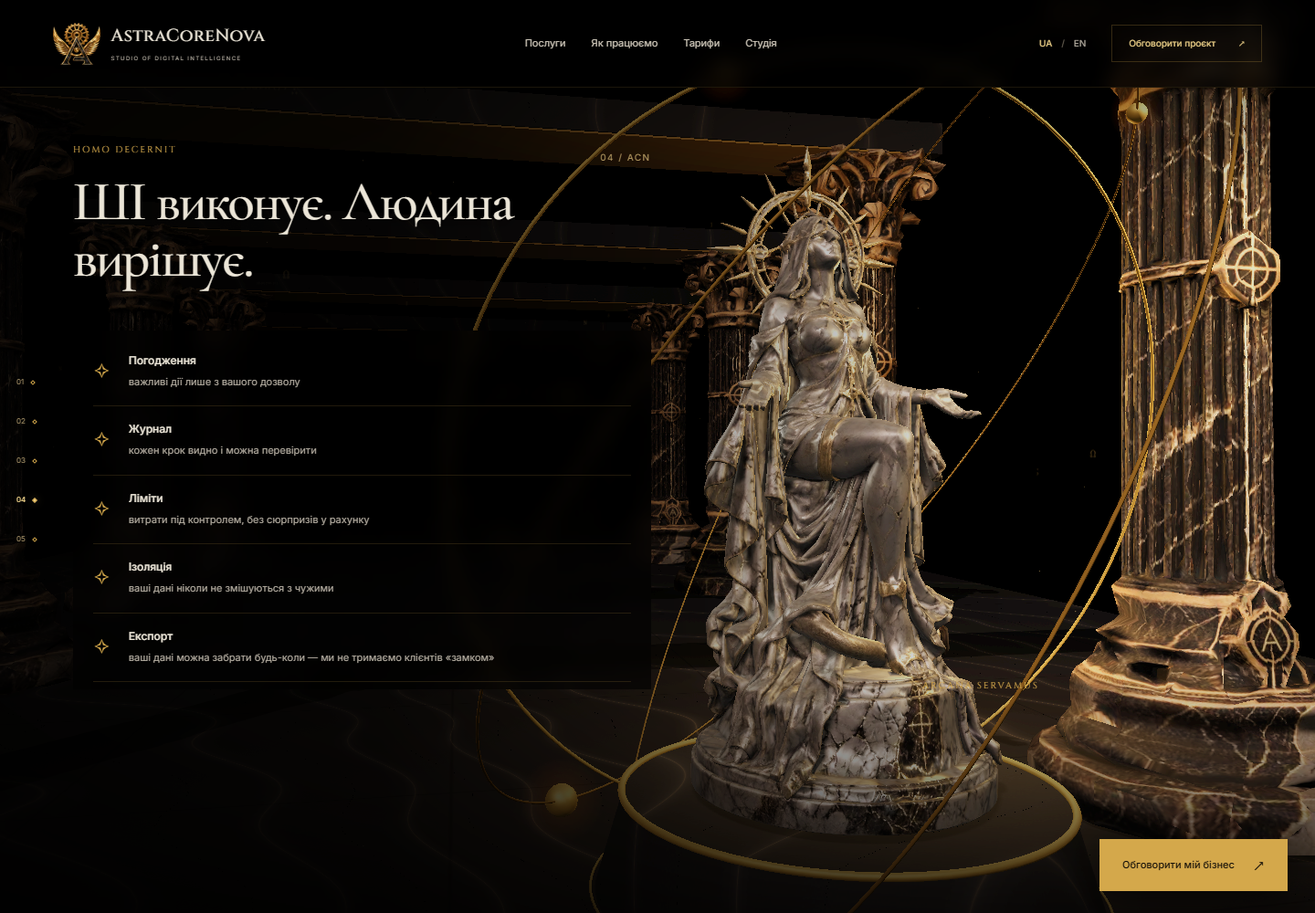
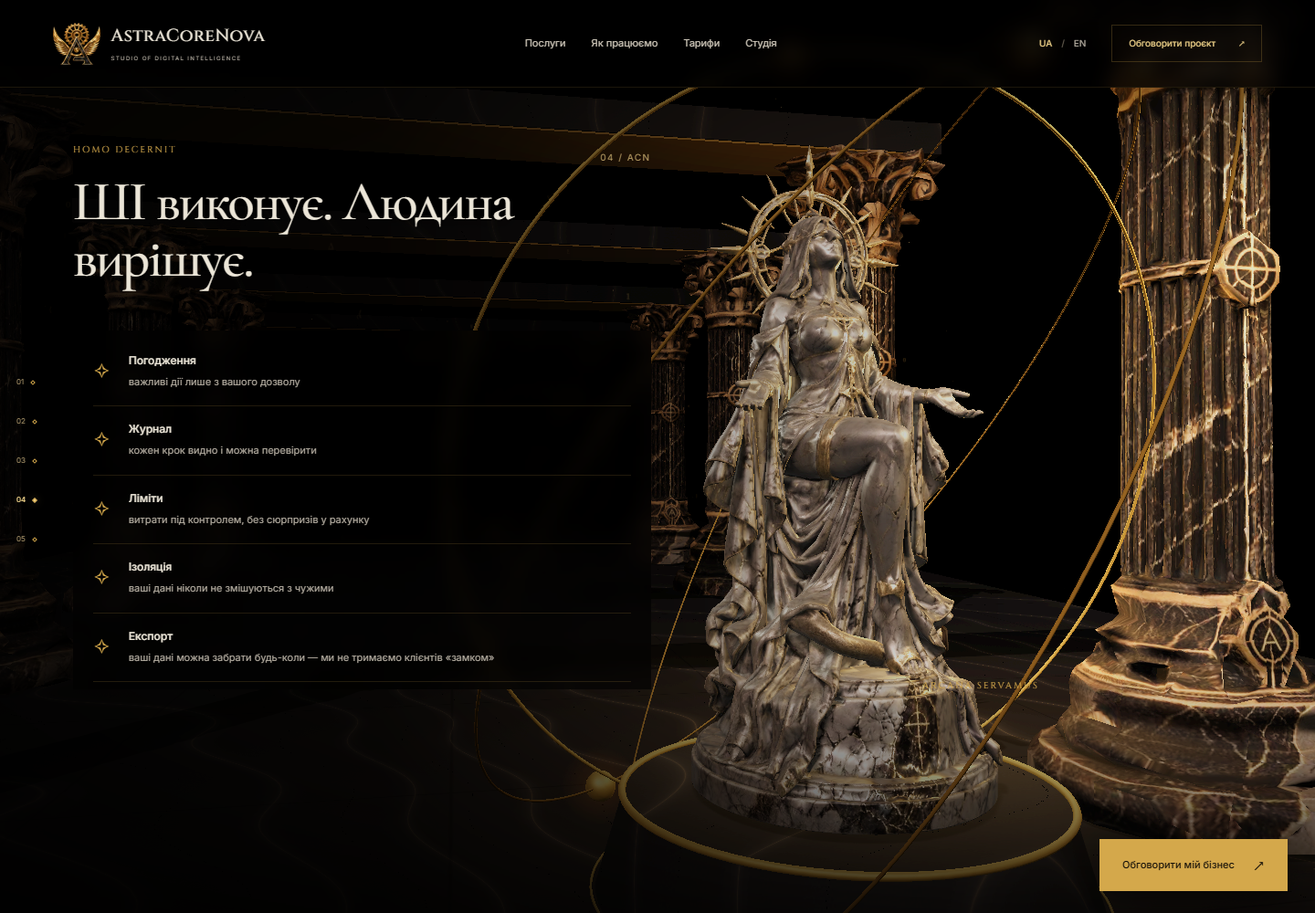
Start temple immediately and enable adaptive mobile camera journey

diff --git a/assets/js/temple-journey.js b/assets/js/temple-journey.js
@@ -1,14 +1,14 @@
-/* Two-hall review prototype. One persistent WebGL canvas; all business content is HTML. */
+/* One persistent temple. Desktop cinema and a lower-cost mobile camera journey. */
 const root=document.getElementById('temple-scene');
 const status=document.createElement('span');
 const reduced=matchMedia('(prefers-reduced-motion: reduce)');
 const narrow=matchMedia('(max-width: 900px)');
+const mobile=narrow.matches||matchMedia('(pointer: coarse)').matches;
 let dispose=()=>{};
 let updateStatus=()=>{};
 let battery;
 function reason(){
   if(reduced.matches)return 'Постери · зменшення руху';
-  if(narrow.matches||matchMedia('(pointer: coarse)').matches)return 'Постери · мобільний режим';
   if(navigator.hardwareConcurrency<=4)return 'Постери · ощадний режим';
   if(navigator.connection?.saveData)return 'Постери · економія трафіку';
   if(battery&&!battery.charging&&battery.level<.2)return 'Постери · низький заряд';
@@ -19,24 +19,24 @@ document.querySelectorAll('a[href^="#"]').forEach(link=>link.addEventListener('c
   event.preventDefault();target.scrollIntoView({behavior:reduced.matches?'instant':'smooth'});
   history.replaceState(null,'',`#${id}`);
 }));
-function change(){const fallback=reason();if(fallback){dispose();status.textContent=fallback;}}
+function change(){const fallback=reason();if(fallback){dispose();document.documentElement.classList.remove('scene-preview');status.textContent=fallback;}}
 reduced.addEventListener('change',change);narrow.addEventListener('change',change);
 document.addEventListener('visibilitychange',()=>updateStatus());
 
 async function start(){
  try{battery=await navigator.getBattery?.();battery?.addEventListener('levelchange',change);battery?.addEventListener('chargingchange',change);}catch{}
- if(reason()){status.textContent=reason();return;}
+ if(reason()){document.documentElement.classList.remove('scene-preview');status.textContent=reason();return;}
  const probe=document.createElement('canvas'),gl=probe.getContext('webgl2');
- if(!gl){status.textContent='Постери · WebGL2 недоступний';return;}gl.getExtension('WEBGL_lose_context')?.loseContext();
+ if(!gl){document.documentElement.classList.remove('scene-preview');status.textContent='Постери · WebGL2 недоступний';return;}gl.getExtension('WEBGL_lose_context')?.loseContext();
  try{
  const [THREE,{GLTFLoader},{MeshoptDecoder},{RoomEnvironment},{EffectComposer},{RenderPass},{UnrealBloomPass},{BokehPass},{OutputPass},g,s,{mergeGeometries},atmosphere]=await Promise.all([
-  import('three'),import('three/addons/loaders/GLTFLoader.js'),import('three/addons/libs/meshopt_decoder.module.js'),import('three/addons/environments/RoomEnvironment.js'),import('three/addons/postprocessing/EffectComposer.js'),import('three/addons/postprocessing/RenderPass.js'),import('three/addons/postprocessing/UnrealBloomPass.js'),import('three/addons/postprocessing/BokehPass.js'),import('three/addons/postprocessing/OutputPass.js'),import('https://cdn.jsdelivr.net/npm/gsap@3.13.0/index.js'),import('https://cdn.jsdelivr.net/npm/gsap@3.13.0/ScrollTrigger.js'),import('three/addons/utils/BufferGeometryUtils.js'),import('./temple-atmosphere.js')]);
+  import('three'),import('three/addons/loaders/GLTFLoader.js'),import('three/addons/libs/meshopt_decoder.module.js'),import('three/addons/environments/RoomEnvironment.js'),mobile?Promise.resolve({}):import('three/addons/postprocessing/EffectComposer.js'),mobile?Promise.resolve({}):import('three/addons/postprocessing/RenderPass.js'),mobile?Promise.resolve({}):import('three/addons/postprocessing/UnrealBloomPass.js'),mobile?Promise.resolve({}):import('three/addons/postprocessing/BokehPass.js'),mobile?Promise.resolve({}):import('three/addons/postprocessing/OutputPass.js'),import('https://cdn.jsdelivr.net/npm/gsap@3.13.0/index.js'),import('https://cdn.jsdelivr.net/npm/gsap@3.13.0/ScrollTrigger.js'),import('three/addons/utils/BufferGeometryUtils.js'),import('./temple-atmosphere.js')]);
  if(reason()){status.textContent=reason();return;}
  const {gsap}=g,{ScrollTrigger}=s;gsap.registerPlugin(ScrollTrigger);
  const renderer=new THREE.WebGLRenderer({alpha:false,antialias:true,powerPreference:'high-performance'});
- renderer.setPixelRatio(Math.min(devicePixelRatio,1.5));renderer.setSize(innerWidth,innerHeight);renderer.setClearColor(0x000000);
+ renderer.setPixelRatio(Math.min(devicePixelRatio,mobile?1:1.5));renderer.setSize(innerWidth,innerHeight);renderer.setClearColor(0x000000);
  renderer.toneMapping=THREE.ACESFilmicToneMapping;renderer.toneMappingExposure=1.02;
- renderer.shadowMap.enabled=true;renderer.shadowMap.type=THREE.PCFSoftShadowMap;
+ renderer.shadowMap.enabled=!mobile;renderer.shadowMap.type=THREE.PCFSoftShadowMap;
  root.append(renderer.domElement);
  const scene=new THREE.Scene();scene.background=new THREE.Color(0x000000);scene.fog=new THREE.FogExp2(0x000000,.033);
  const camera=new THREE.PerspectiveCamera(49,innerWidth/innerHeight,.1,120);
@@ -93,7 +93,7 @@ async function start(){
  function label(text,x,y,z){const canvas=document.createElement('canvas');canvas.width=1024;canvas.height=128;const ctx=canvas.getContext('2d');ctx.font='32px Cinzel,Georgia';ctx.textAlign='center';ctx.fillStyle='#d4a84b';ctx.fillText(text,512,72);const texture=new THREE.CanvasTexture(canvas);texture.colorSpace=THREE.SRGBColorSpace;const material=new THREE.SpriteMaterial({map:texture,color:0xffffff,transparent:true,opacity:.8,depthWrite:false});const sprite=new THREE.Sprite(material);sprite.position.set(x,y,z);sprite.scale.set(8,1,1);scene.add(sprite);return sprite;}
  await document.fonts.ready;
  const signs=[label('EX ASTRIS NOVA AETAS',0,6.3,0),label('OPERA DIGITALIA',0,6.3,-28),label('INTELLIGENTIA SINE LIMITIBUS',-5.9,4.5,-5),label('HOMO DECERNIT',0,6.3,-75),label('PRETIUM ET VALOR',0,6.3,-100),...[-40,-46,-52,-58].map((z,i)=>label(['I · COGNITIO','II · EXPERIMENTUM','III · OPUS','IV · CURA'][i],0,6.6,z))];
- const goldenCode=atmosphere.createGoldenCode(scene,{count:520,depth:122,dustCount:580,statues:[[2.5,2],[2.5,-27],[2.5,-74]]});
+ const goldenCode=atmosphere.createGoldenCode(scene,{count:mobile?180:520,depth:122,dustCount:mobile?150:580,statues:[[2.5,2],[2.5,-27],[2.5,-74]]});
  // Merge the static columns/trim by material: richer architecture without hundreds of draw calls.
  for(const source of [scene,proceduralColumns])for(const material of [marble,gold,darkGold]){
   const objects=source.children.filter(object=>object.isMesh&&object.material===material&&object!==floor&&object.geometry.type!=='PlaneGeometry');
@@ -101,10 +101,10 @@ async function start(){
   if(geometries.length){const merged=mergeGeometries(geometries);if(merged){objects.forEach(object=>{source.remove(object);object.geometry.dispose();});const batch=new THREE.Mesh(merged,material);batch.castShadow=true;batch.receiveShadow=true;source.add(batch);}geometries.forEach(geometry=>geometry.dispose());}
  }
  const loader=new GLTFLoader().setMeshoptDecoder(MeshoptDecoder);const statues=[];let colossusPromise,madonnaPromise;const columnBatches=[];
- let stopped=false,raf=0,last=0,time=0;const state={progress:0,scrollY:0,loaded:0,frames:0,architecture:false,floorInserts:false};
+ let stopped=false,raf=0,last=0,time=0,mobileRequested='oracle';const state={progress:0,scrollY:0,loaded:0,frames:0,architecture:false,floorInserts:false};
  async function loadColumn(){
   try{
-   const url='assets/3d/column.glb',response=await fetch(url,{method:'HEAD'});if(!response.ok)return;
+   const url='assets/3d/column.glb';
    const gltf=await loader.loadAsync(url);if(stopped){disposeObject(gltf.scene);return;}
    const original=gltf.scene;original.updateMatrixWorld(true);const bounds=new THREE.Box3().setFromObject(original),size=bounds.getSize(new THREE.Vector3()),center=bounds.getCenter(new THREE.Vector3()),scale=7.3/size.y;
    const normalize=new THREE.Matrix4().makeScale(scale,scale,scale).multiply(new THREE.Matrix4().makeTranslation(-center.x,-bounds.min.y,-center.z));
@@ -140,7 +140,25 @@ async function start(){
    if(inserts.children.length){scene.add(inserts);state.floorInserts=true;}
   }catch(error){console.warn('ACN: keeping plain stone floor',error.message);}
  }
- async function load(name,z){try{const response=await fetch(`assets/3d/${name}.glb`,{method:'HEAD'});if(!response.ok)return;const gltf=await loader.loadAsync(`assets/3d/${name}.glb`);if(stopped){disposeObject(gltf.scene);return;}const statue=new THREE.Group(),object=gltf.scene;const bounds=new THREE.Box3().setFromObject(object),size=bounds.getSize(new THREE.Vector3()),center=bounds.getCenter(new THREE.Vector3()),scale=4.3/Math.max(size.x,size.y,size.z);object.scale.setScalar(scale);object.position.set(-center.x*scale,.66-bounds.min.y*scale,-center.z*scale);object.traverse(n=>{if(n.isMesh){n.castShadow=true;n.receiveShadow=true;}});statue.add(object);statue.position.set(2.5,0,z);scene.add(statue);statues.push(statue);state.loaded++;return statue;}catch(error){console.warn('ACN prototype model fallback',name,error.message);}}
+ async function load(name,z){
+  try{
+   const gltf=await loader.loadAsync(`assets/3d/${name}${mobile?'-mobile':''}.glb`);
+   if(stopped||(mobile&&mobileRequested!==name)){disposeObject(gltf.scene);return;}
+   if(mobile){statues.splice(0).forEach(statue=>{scene.remove(statue);disposeObject(statue);});}
+   const statue=new THREE.Group(),object=gltf.scene;
+   const bounds=new THREE.Box3().setFromObject(object),size=bounds.getSize(new THREE.Vector3()),center=bounds.getCenter(new THREE.Vector3()),scale=4.3/Math.max(size.x,size.y,size.z);
+   object.scale.setScalar(scale);object.position.set(-center.x*scale,.66-bounds.min.y*scale,-center.z*scale);
+   object.traverse(n=>{if(n.isMesh){n.castShadow=!mobile;n.receiveShadow=!mobile;}});
+   statue.add(object);statue.userData.modelName=name;statue.position.set(2.5,0,z);scene.add(statue);statues.push(statue);state.loaded++;return statue;
+  }catch(error){console.warn('ACN model fallback',name,error.message);}
+ }
+ function selectMobileModel(p){
+  const desired=p<.14?'oracle':p<.37?'colossus':p>.64&&p<.94?'madonna':null;
+  if(desired===mobileRequested)return;
+  mobileRequested=desired;
+  if(desired)load(desired,{oracle:2,colossus:-27,madonna:-74}[desired]);
+  else statues.splice(0).forEach(statue=>{scene.remove(statue);disposeObject(statue);});
+ }
  const route=new THREE.CatmullRomCurve3([new THREE.Vector3(0,2.65,11),new THREE.Vector3(.15,2.65,-19),new THREE.Vector3(-.4,2.8,-33),new THREE.Vector3(.3,2.65,-59),new THREE.Vector3(0,2.7,-66),new THREE.Vector3(0,2.65,-90)]);
  const lookRoute=new THREE.CatmullRomCurve3([new THREE.Vector3(2,2.8,0),new THREE.Vector3(2.5,2.8,-27),new THREE.Vector3(0,3,-43),new THREE.Vector3(0,3,-66),new THREE.Vector3(2.5,2.8,-74),new THREE.Vector3(2.5,3,-100)]);
  const sections=Object.fromEntries(['hero','services','process','security','pricing'].map(id=>[id,document.getElementById(id)]));
@@ -148,7 +166,9 @@ async function start(){
  function measure(){anchors=[0,Math.max(1,sections.services.offsetTop-innerHeight*.18),sections.process.offsetTop-innerHeight*.32,sections.process.offsetTop+sections.process.offsetHeight-innerHeight*.8,sections.security.offsetTop-innerHeight*.18,sections.pricing.offsetTop-innerHeight*.18];}
  function routeProgress(scroll){for(let i=0;i<anchors.length-1;i++){if(scroll<=anchors[i+1])return (i+THREE.MathUtils.clamp((scroll-anchors[i])/(anchors[i+1]-anchors[i]),0,1))/(anchors.length-1);}return 1;}
  measure();
- const composer=new EffectComposer(renderer,new THREE.WebGLRenderTarget(innerWidth,innerHeight,{type:THREE.UnsignedByteType}));composer.addPass(new RenderPass(scene,camera));const bloom=new UnrealBloomPass(new THREE.Vector2(innerWidth,innerHeight),.17,.4,.86);composer.addPass(bloom);const bokeh=new BokehPass(scene,camera,{focus:10,aperture:.000012,maxblur:.003});bokeh.enabled=false;composer.addPass(bokeh);composer.addPass(new OutputPass());
+ const composer=mobile?{render:()=>renderer.render(scene,camera),setSize:()=>{},dispose:()=>{}}:new EffectComposer(renderer,new THREE.WebGLRenderTarget(innerWidth,innerHeight,{type:THREE.UnsignedByteType}));
+ const bokeh=mobile?{enabled:false,uniforms:{aperture:{value:0},focus:{value:10}}}:new BokehPass(scene,camera,{focus:10,aperture:.000012,maxblur:.003});
+ if(!mobile){composer.addPass(new RenderPass(scene,camera));composer.addPass(new UnrealBloomPass(new THREE.Vector2(innerWidth,innerHeight),.17,.4,.86));composer.addPass(bokeh);composer.addPass(new OutputPass());}bokeh.enabled=false;
  if(new URLSearchParams(location.search).has('debug'))window.__acnScene={renderer,scene,camera,composer};
  let pointerX=0,pointerY=0;
  const onPointer=event=>{pointerX=(event.clientX/innerWidth-.5)*.24;pointerY=(event.clientY/innerHeight-.5)*.10;};addEventListener('pointermove',onPointer,{passive:true});
@@ -157,14 +177,15 @@ async function start(){
  const statusForProgress=()=>{};updateStatus=statusForProgress;
  function render(now){
   if(stopped||document.hidden){raf=0;return;}
-  if(now-last>=1000/60){
+  if(now-last>=1000/(mobile?30:60)){
    const delta=Math.min((now-last)/1000,.08);last=now;time+=delta;state.frames++;
    const p=routeProgress(state.scrollY),point=route.getPoint(p),target=lookRoute.getPoint(p);state.progress=p;
-   if(p>.06&&!colossusPromise)colossusPromise=load('colossus',-27);if(p>.49&&!madonnaPromise)madonnaPromise=load('madonna',-74);
+   if(mobile)selectMobileModel(p);
+   if(!mobile&&p>.06&&!colossusPromise)colossusPromise=load('colossus',-27);if(!mobile&&p>.49&&!madonnaPromise)madonnaPromise=load('madonna',-74);
    point.x+=pointerX+Math.sin(time*.13)*.12;point.y+=pointerY+Math.sin(time*.11)*.025;
-   target.x-=1.05;camera.position.copy(point);camera.lookAt(target);
+   target.x-=mobile?0:1.05;camera.position.copy(point);camera.lookAt(target);
    const transition=Math.sin(Math.PI*p);
-   bokeh.enabled=p>.28&&p<.79;bokeh.uniforms.aperture.value=.000012*transition;bokeh.uniforms.focus.value=camera.position.distanceTo(target);
+   bokeh.enabled=!mobile&&p>.28&&p<.79;bokeh.uniforms.aperture.value=.000012*transition;bokeh.uniforms.focus.value=camera.position.distanceTo(target);
    key.position.set(-2+Math.sin(time*.16)*1.2,8,point.z-3);key.target.position.set(2.5,2.5,target.z);
    key.color.setRGB(1,.82-.10*p,.56+.12*p);key.intensity=3.1+Math.sin(time*.24)*.18;
    scene.fog.density=.026+transition*.01;
@@ -175,7 +196,7 @@ async function start(){
    signs.forEach((sign,i)=>sign.material.opacity=.73+Math.sin(time*.7+i)*.12);
    entranceCopy.style.opacity='1';
    composer.render();if(state.frames%30===0)statusForProgress();
-   window.__acnJourney={canvasCount:root.querySelectorAll('canvas').length,progress:p,room:p<.14?'entrance':p<.35?'services':p<.7?'process':p<.9?'security':'final',models:state.loaded,camera:point.toArray(),frames:state.frames,glyphs:goldenCode.count,motes:goldenCode.dustCount,statueRotations:statues.map(statue=>statue.rotation.y),elapsed:time,architecture:state.architecture,floorInserts:state.floorInserts};
+   window.__acnJourney={canvasCount:root.querySelectorAll('canvas').length,quality:mobile?'mobile':'desktop',residentModels:statues.length,modelNames:statues.map(s=>s.userData.modelName),shadows:renderer.shadowMap.enabled,postprocessing:!mobile,progress:p,room:p<.14?'entrance':p<.35?'services':p<.7?'process':p<.9?'security':'final',models:state.loaded,camera:point.toArray(),frames:state.frames,glyphs:goldenCode.count,motes:goldenCode.dustCount,statueRotations:statues.map(statue=>statue.rotation.y),elapsed:time,architecture:state.architecture,floorInserts:state.floorInserts};
   }
   raf=requestAnimationFrame(render);
  }
@@ -183,11 +204,13 @@ async function start(){
  document.addEventListener('visibilitychange',resume);
  function resize(){if(stopped)return;measure();camera.aspect=innerWidth/innerHeight;camera.updateProjectionMatrix();renderer.setSize(innerWidth,innerHeight);composer.setSize(innerWidth,innerHeight);ScrollTrigger.refresh();}addEventListener('resize',resize);
  function disposeObject(object){object.traverse(node=>{if(node.geometry)node.geometry.dispose();const materials=Array.isArray(node.material)?node.material:[node.material];materials.filter(Boolean).forEach(material=>{Object.values(material).forEach(value=>{if(value?.isTexture)value.dispose();});material.dispose();});});}
- dispose=()=>{if(stopped)return;stopped=true;cancelAnimationFrame(raf);trigger.kill();document.removeEventListener('visibilitychange',resume);removeEventListener('pointermove',onPointer);removeEventListener('resize',resize);disposeObject(scene);environment.dispose();composer.dispose();renderer.dispose();renderer.forceContextLoss();renderer.domElement.remove();document.body.classList.remove('scene-ready');entranceCopy.style.opacity='1';};
- await load('oracle',2);if(reason()){dispose();status.textContent=reason();return;}
- loadColumn().then(()=>{if(!stopped)loadFloorInserts();});
+ dispose=()=>{if(stopped)return;stopped=true;cancelAnimationFrame(raf);trigger.kill();document.removeEventListener('visibilitychange',resume);removeEventListener('pointermove',onPointer);removeEventListener('resize',resize);disposeObject(scene);environment.dispose();composer.dispose();renderer.dispose();renderer.forceContextLoss();renderer.domElement.remove();document.body.classList.remove('scene-ready');document.documentElement.classList.remove('scene-preview');entranceCopy.style.opacity='1';};
+ await Promise.all([load('oracle',2),mobile?Promise.resolve():loadColumn()]);if(reason()){dispose();status.textContent=reason();return;}
+ if(!mobile)loadFloorInserts();
+ camera.position.copy(route.getPoint(0));const firstTarget=lookRoute.getPoint(0);firstTarget.x-=mobile?0:1.05;camera.lookAt(firstTarget);
+ await renderer.compileAsync(scene,camera);composer.render();
  document.body.classList.add('scene-ready');root.dataset.state='ready';resume();addEventListener('pagehide',dispose,{once:true});
- }catch(error){dispose();root.dataset.state='fallback';status.textContent='Постери · 3D тимчасово недоступне';console.warn('ACN journey fallback',error.message);}
+ }catch(error){dispose();document.documentElement.classList.remove('scene-preview');root.dataset.state='fallback';status.textContent='Постери · 3D тимчасово недоступне';console.warn('ACN journey fallback',error.message);}
 }
 // Keep the first paint and HTML interaction independent of the 3D engine.
-if('requestIdleCallback' in window)requestIdleCallback(start,{timeout:2200});else setTimeout(start,1200);
+start();

diff --git a/assets/css/journey-site.css b/assets/css/journey-site.css
@@ -2,8 +2,12 @@
 .temple-site{background:#000;padding-bottom:40px;--bronze:#ad9158;--muted:#b4ada1}
 .temple-site::before{display:none}.sr-only{position:absolute;width:1px;height:1px;padding:0;margin:-1px;overflow:hidden;clip:rect(0,0,0,0);white-space:nowrap;border:0}
 #temple-scene{position:fixed;inset:0;z-index:0;background:#000;pointer-events:none}
-#temple-scene canvas{display:block;width:100%;height:100%;opacity:0;transition:opacity 1.2s}
+#temple-scene::before{content:'';position:absolute;inset:0;background:#000 center/100% 100% no-repeat;opacity:0}
+.scene-preview #temple-scene::before{background-image:url('../3d/temple-entry.webp');opacity:1}
+.scene-preview .hero-art .model-poster,.scene-preview .hero-art .orbit,.scene-preview .hero-art .model-coordinate{visibility:hidden}
+#temple-scene canvas{position:relative;display:block;width:100%;height:100%;opacity:0;transition:opacity .45s}
 .scene-ready #temple-scene canvas{opacity:1}
+.scene-ready #temple-scene::before{opacity:0;transition:opacity .45s}
 .temple-vignette{position:fixed;inset:0;z-index:1;pointer-events:none;background:linear-gradient(90deg,#000d,#000b 29%,#0003 58%,transparent 79%),linear-gradient(0deg,#000b,transparent 27%,transparent 78%,#0008)}
 .temple-site main,.temple-site .site-footer{position:relative;z-index:2}
 .temple-site .site-header{position:fixed;inset:0 0 auto;height:96px;background:linear-gradient(#000e,#000b);backdrop-filter:blur(10px);border-color:#d4a84b22;z-index:40}
@@ -68,6 +72,7 @@
 @media(max-width:560px){.temple-site .site-header{height:78px;padding-inline:18px;gap:10px}.temple-site .brand-crest{width:38px;height:38px}.temple-site .brand{font-size:13px;gap:8px}.temple-site .brand small{font-size:5px;letter-spacing:.12em}.temple-site .header-tools{gap:10px}.temple-site .hero{padding-top:78px}.temple-site .hero h1{font-size:clamp(53px,12.6vw,70px)}.temple-site .hero-content{padding-top:36px;min-height:0}.temple-site .hero-description{font-size:12px}.temple-site .hero-art{height:440px}.temple-site .hero-note{font-size:8px}.temple-site .hero-bottom{margin-bottom:10px}.temple-site .difference{width:calc(100% - 40px);padding:30px 18px}.temple-site .section{padding-block:65px}.temple-site .services-intro{grid-template-columns:1fr 130px;gap:10px;min-height:260px}.temple-site .services-intro .editorial{font-size:32px}.temple-site .services-intro>.model-stage{height:260px}.temple-site .timeline article{padding:23px 16px}.temple-site .timeline{gap:18px}.temple-site .security-layout{display:flex;flex-direction:column-reverse}.temple-site .control-list{padding-inline:16px}.temple-site .security-art{height:400px}.temple-site .studio-layout{gap:25px}.temple-site .studio-emblem img{width:210px;height:210px}.temple-site .faq-list{padding-inline:0;background:none}.temple-site .contact form{padding:22px 18px}.persistent-contact{left:18px;right:18px;bottom:16px;min-height:52px}.temple-site .site-footer{padding-bottom:110px}.temple-site .footer-top .brand-crest{width:31px;height:31px}.temple-site .button-outline{min-height:47px}.temple-vignette{background:linear-gradient(0deg,#0008,transparent 50%)}}
 @media(prefers-reduced-motion:reduce){.temple-site .process{min-height:0}.temple-site .process>.wrap{position:static;padding-block:0}.scene-ready .model-poster{opacity:1}}
 @media(max-width:900px){.temple-site .model-poster{filter:none;transition:none}.temple-site .site-header{backdrop-filter:none}.temple-site .hero-art .orbit{opacity:.55}}
+@media(max-width:900px){.scene-preview #temple-scene::before{background-image:url('../3d/temple-entry-mobile.webp');background-size:100% 100%;background-position:center}.scene-ready .model-poster{opacity:0}.scene-preview .temple-vignette{background:linear-gradient(180deg,#000b,#0008 48%,#0002 80%,#0008)}}
 .reveal-ready [data-reveal]{opacity:0;transform:translateY(18px);transition:opacity .7s ease var(--reveal-delay,0ms),transform .7s cubic-bezier(.2,.65,.25,1) var(--reveal-delay,0ms),border-color .3s,background .3s}
 .reveal-ready [data-reveal].is-revealed{opacity:1;transform:translateY(0)}
 @media(prefers-reduced-motion:reduce){.reveal-ready [data-reveal]{opacity:1;transform:none;transition:none}}

diff --git a/index.html b/index.html
@@ -1,5 +1,15 @@
 <!doctype html>
-<html lang="uk"><head><meta charset="utf-8"><meta name="viewport" content="width=device-width,initial-scale=1">
+<html lang="uk"><head><script>// Inlined in the head: choose the first-paint treatment before content is drawn.
+(()=>{
+ if(matchMedia('(prefers-reduced-motion: reduce)').matches||navigator.hardwareConcurrency<=4||navigator.connection?.saveData||!window.WebGL2RenderingContext)return;
+ document.documentElement.classList.add('scene-preview');
+ const mobile=matchMedia('(max-width:900px), (pointer:coarse)').matches;
+ function preload(rel,href,as){const link=document.createElement('link');link.rel=rel;link.href=href;if(as)link.as=as;if(as==='fetch'||rel==='modulepreload')link.crossOrigin='anonymous';document.head.append(link);}
+ preload('preload',`assets/3d/temple-entry${mobile?'-mobile':''}.webp`,'image');
+ preload('preload',`assets/3d/oracle${mobile?'-mobile':''}.glb`,'fetch');
+ preload('modulepreload','https://cdn.jsdelivr.net/npm/three@0.180.0/build/three.module.js');
+})();
+</script><meta charset="utf-8"><meta name="viewport" content="width=device-width,initial-scale=1">
 <title>AstraCoreNova — цифрові працівники для бізнесу | AI-автоматизація в Україні</title>
 <meta name="description" content="Цифрові працівники на основі ШІ для малого та середнього бізнесу: заявки, клієнти, CRM, документи. Пілот 14 днів з вимірюваним результатом.">
 <meta name="theme-color" content="#07070a"><link rel="canonical" href="https://astracorenova.com/">

diff --git a/assets/js/site.js b/assets/js/site.js
@@ -52,10 +52,8 @@
   reduced.addEventListener('change', () => { if (reduced.matches) { activeScrambles.forEach((id,node) => { cancelAnimationFrame(id); node.textContent = node.dataset.original; }); activeScrambles.clear(); } });
 
   // Motion preferences and device limits are checked again inside the scene module.
-  // Mobile users never download three.js or 3D models.
-  if (!reduced.matches && innerWidth > 900 && !matchMedia('(pointer: coarse)').matches && navigator.hardwareConcurrency > 4 && !navigator.connection?.saveData) {
-    const start=()=>import('./temple-journey.js').catch(()=>{});
-    if('requestIdleCallback' in window) requestIdleCallback(start,{timeout:2200}); else setTimeout(start,1200);
+  if (!reduced.matches && !(navigator.hardwareConcurrency <= 4) && !navigator.connection?.saveData) {
+    import('./temple-journey.js').catch(()=>document.documentElement.classList.remove('scene-preview'));
   }
   const rooms=[...document.querySelectorAll('[data-room-link]')];
   if (rooms.length) {

diff --git a/assets/js/scene-boot.js b/assets/js/scene-boot.js
@@ -1,0 +1,10 @@
+// Inlined in the head: choose the first-paint treatment before content is drawn.
+(()=>{
+ if(matchMedia('(prefers-reduced-motion: reduce)').matches||navigator.hardwareConcurrency<=4||navigator.connection?.saveData||!window.WebGL2RenderingContext)return;
+ document.documentElement.classList.add('scene-preview');
+ const mobile=matchMedia('(max-width:900px), (pointer:coarse)').matches;
+ function preload(rel,href,as){const link=document.createElement('link');link.rel=rel;link.href=href;if(as)link.as=as;if(as==='fetch'||rel==='modulepreload')link.crossOrigin='anonymous';document.head.append(link);}
+ preload('preload',`assets/3d/temple-entry${mobile?'-mobile':''}.webp`,'image');
+ preload('preload',`assets/3d/oracle${mobile?'-mobile':''}.glb`,'fetch');
+ preload('modulepreload','https://cdn.jsdelivr.net/npm/three@0.180.0/build/three.module.js');
+})();

diff --git a/scripts/compose_journey.py b/scripts/compose_journey.py
@@ -1,7 +1,10 @@
 """Compose the approved continuous temple around the existing static business content."""
 import re
+from pathlib import Path
 
 def compose(html):
+    boot=(Path(__file__).resolve().parents[1]/'assets/js/scene-boot.js').read_text(encoding='utf-8')
+    html=html.replace('<head>','<head><script>'+boot+'</script>',1)
     html=html.replace('<script src="assets/js/site.js" defer></script>','<script src="assets/js/site.js" defer></script><script src="assets/js/reveal.js" defer></script>')
     html=html.replace('<body>','<body class="temple-site">',1)
     html=html.replace('<link rel="stylesheet" href="assets/css/temple.css">','<link rel="stylesheet" href="assets/css/temple.css"><link rel="stylesheet" href="assets/css/journey-site.css">')

diff --git a/README.md b/README.md
@@ -2,7 +2,7 @@
 
 Незалежний сайт цифрових працівників для бізнесу. Домен: **https://astracorenova.com/**. Пошта: **contact@astracorenova.com**.
 
-Статичний HTML, UA/EN, єдина кінематографічна сцена храму, three.js 0.180.0, GSAP 3.13.0, стиснені GLB/WebP. Мобільні й слабкі пристрої використовують постери. Поява текстових блоків і карток поважає reduced motion.
+Статичний HTML, UA/EN, єдина кінематографічна сцена храму, three.js 0.180.0, GSAP 3.13.0, стиснені GLB/WebP. Потужні телефони отримують рух камери з лімітом 30 fps, DPR ≤ 1, однією статуєю одночасно, без тіней і постобробки. Слабкі пристрої, saveData та reduced motion використовують постери. До запуску WebGL показується точний кадр храму; HTML і кнопки доступні одразу. Поява текстових блоків і карток поважає reduced motion.
 
 ## Локальний перегляд
 
